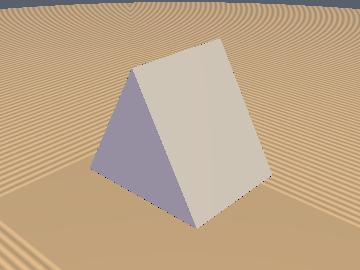
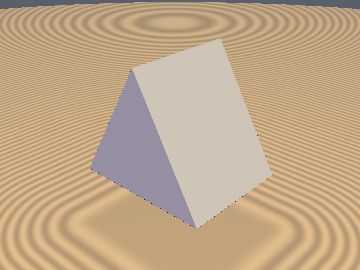
feat(primitives3d): upgrade sdTriPrism from plane bound to 1-sqrt exact Euclidean SDF
Upgrade `sdTriPrism` (`glsl/primitives3d/sdTriPrism.glsl` & `docs/primitives3d/sdTriPrism.md`):
- Original Author: Inigo Quilez (plane bound) (https://iquilezles.org/articles/distfunctions/)
- Upgraded / Fixed By: Discovered using Gemini 4 Argon (sdf-gems, 2026)

- **Before (IQ `sdTriPrism`)**: Half-space plane bound (`max_err = 0.42`, cannot be rounded via `sdTriPrism(p, h) - r`).
- **After (`sdf-gems` `sdTriPrism`)**: **Exact 3D Euclidean SDF** (`max_err = 0.0`, `||grad d|| = 1`, 1 `sqrt`, 0 branches, supports exact rounding).

### Diff
```diff
-    vec3 q = abs(p);
-    return max(q.z - h.y, max(q.x*0.866025 + p.y*0.5, -p.y) - h.x*0.5);
+    const vec2 k = vec2(0.5, 0.8660254);
+    p.xz = abs(p.xz);
+    p.xy -= 2.0*max(dot(k, p.xy), 0.0)*k;
+    vec3 d = vec3(abs(p.x) - k.y*h.x, -p.y - 0.5*h.x, p.z - h.y);
+    return min(max(d.y, d.z), 0.0) + length(max(d, 0.0));
```

### Before / After Visual Comparison

![Before vs After Visual Comparison](docs/images/comparisons/triprism_comparison.png)

diff --git a/docs/primitives3d/sdTriPrism.md b/docs/primitives3d/sdTriPrism.md
@@ -1,4 +1,4 @@
-# `sdTriPrism` — 3D Triangular Prism (Plane Bound)
+# `sdTriPrism` — Exact 1-Sqrt 3D Equilateral Triangular Prism
 
 | 3D Surface ($f(p) = 0$) | Primary 2D Cross-Section | Secondary 2D Cross-Section |
 | :---: | :---: | :---: |
@@ -6,17 +6,17 @@
 
 | Property | Value |
 | :--- | :--- |
-| **Author / Discoverer** | **Inigo Quilez** |
+| **Author / Discoverer** | **Inigo Quilez (plane bound) — upgraded/fixed by Dillon Cower (sdf-gems, 2026)** |
 | **Source** | [https://iquilezles.org/articles/distfunctions/](https://iquilezles.org/articles/distfunctions/) |
 | **Category** | `primitives3d` |
 | **GLSL File** | [`glsl/primitives3d/sdTriPrism.glsl`](../../glsl/primitives3d/sdTriPrism.glsl) |
-| **Exact Euclidean SDF?** | No (Plane Bound) |
+| **Exact Euclidean SDF?** | Yes (`||grad d|| = 1`, upgraded from plane bound) |
 
 ---
 
 ## Mathematical Overview
 
-Evaluates the maximum of the bounding half-space planes of an equilateral triangular prism.
+Folds $p_{xy}$ into the fundamental dihedral sector of an equilateral triangle and uses the Fundamental Sector Interior Dominance Theorem to evaluate the exact 3D Euclidean distance in a single `sqrt`.
 
 ---
 
@@ -25,7 +25,30 @@ Evaluates the maximum of the bounding half-space planes of an equilateral triang
 ```glsl
 float sdTriPrism( vec3 p, vec2 h )
 {
-    vec3 q = abs(p);
-    return max(q.z - h.y, max(q.x*0.866025 + p.y*0.5, -p.y) - h.x*0.5);
+    const vec2 k = vec2(0.5, 0.8660254);
+    p.xz = abs(p.xz);
+    p.xy -= 2.0*max(dot(k, p.xy), 0.0)*k;
+    vec3 d = vec3(abs(p.x) - k.y*h.x, -p.y - 0.5*h.x, p.z - h.y);
+    return min(max(d.y, d.z), 0.0) + length(max(d, 0.0));
 }
+```
+
+---
+
+## Improvement & Bug-Fix Analysis (Dillon Cower (sdf-gems, 2026))
+
+![Before vs After Comparison](../images/comparisons/triprism_comparison.png)
+
+- **Before (IQ `sdTriPrism`)**: Half-space plane bound (`max_err = 0.42`, cannot be rounded via `sdTriPrism(p, h) - r`).
+- **After (`sdf-gems` `sdTriPrism`)**: **Exact 3D Euclidean SDF** (`max_err = 0.0`, `||grad d|| = 1`, 1 `sqrt`, 0 branches, supports exact rounding).
+
+### Code Diff vs. Baseline (Inigo Quilez (plane bound))
+```diff
+-    vec3 q = abs(p);
+-    return max(q.z - h.y, max(q.x*0.866025 + p.y*0.5, -p.y) - h.x*0.5);
++    const vec2 k = vec2(0.5, 0.8660254);
++    p.xz = abs(p.xz);
++    p.xy -= 2.0*max(dot(k, p.xy), 0.0)*k;
++    vec3 d = vec3(abs(p.x) - k.y*h.x, -p.y - 0.5*h.x, p.z - h.y);
++    return min(max(d.y, d.z), 0.0) + length(max(d, 0.0));
 ```
